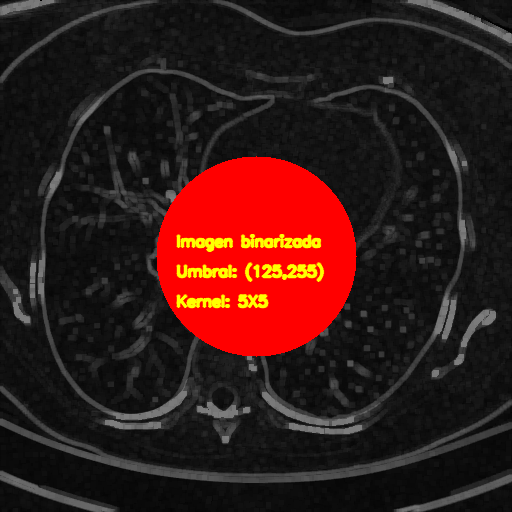
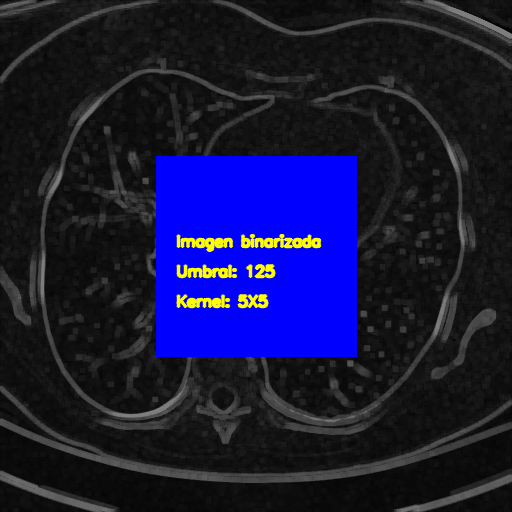
.

diff --git a/main.git.py b/main.git.py
@@ -3,9 +3,9 @@ import os
 import cv2
 import pydicom
 # Diccionarios 
-diccionario_pacientes = {}  # clave-id, valor-bjeto Paciente
-diccionario_dicom = {} # clave-name, valor-dicom
-imagenesNuevas= {}
+diccionario_pacientes = {}  
+diccionario_dicom = {} 
+#imagenesNuevas= {}
 
 if __name__ == "__main__":
 
@@ -44,7 +44,7 @@ if __name__ == "__main__":
             ds = slices[0]
             paciente = Paciente(ds, volumen)
             diccionario_pacientes[paciente.id_] = paciente
-            print(f"Paciente '{paciente.nombre}' registrado con ID '{paciente.id_}'.")
+            print(f"Paciente '{paciente.nombre}' registrado con ID '{paciente.id_}' Edad {paciente.edad}.")
 
    
         elif menu == '3':
@@ -59,7 +59,7 @@ if __name__ == "__main__":
             if ruta.lower().endswith('.dcm'):
                     try:
                         ds = pydicom.dcmread(ruta)
-                        imagenesNuevas[nombre]= ds.pixel_array
+                        diccionario_dicom[nombre]= ds.pixel_array
                     except Exception as e:
                         print(f'Error')
 
@@ -70,7 +70,7 @@ if __name__ == "__main__":
                 print('No se pudo cargar la imagen.')
 
                 
-            imagenesNuevas[nombre] = img
+            diccionario_dicom[nombre] = img
             print(f"Imagen cargada exitosamente.")
 
 

diff --git a/clases.py b/clases.py
@@ -168,7 +168,7 @@ class ProcesadorPNG:
         morphed_im = cv2.morphologyEx(binaria_im, cv2.MORPH_GRADIENT, kernel, iterations=1)
 
         # Convertir a RGB para dibujo de forma y texto en color blanco
-        rgb_img = cv2.cvtColor(morphed_im, cv2.COLOR_GRAY2RGB)
+        rgb_img = cv2.cvtColor(morphed_im, cv2.COLOR_GRAY2BGR)
 
         h, w = rgb_img.shape[:2]
         center = (w // 2, h // 2)

diff --git a/main.py b/main.py
@@ -3,8 +3,8 @@ import os
 import cv2
 import pydicom
 # Diccionarios 
-diccionario_pacientes = {}  # clave-id, valor-bjeto Paciente
-diccionario_dicom = {} # clave-name, valor-dicom
+diccionario_pacientes = {} 
+diccionario_dicom = {} 
 imagenesNuevas= {}
 
 if __name__ == "__main__":
